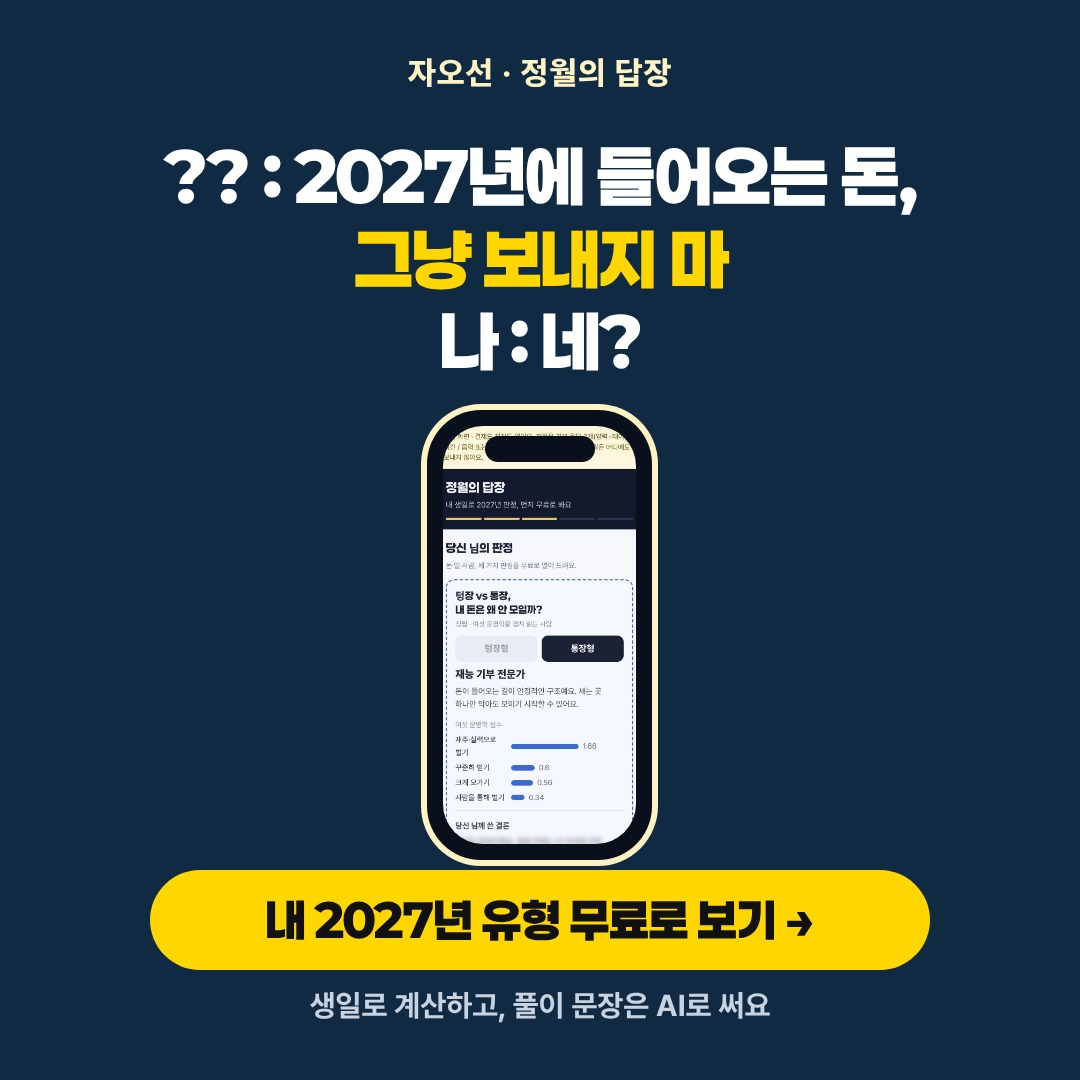
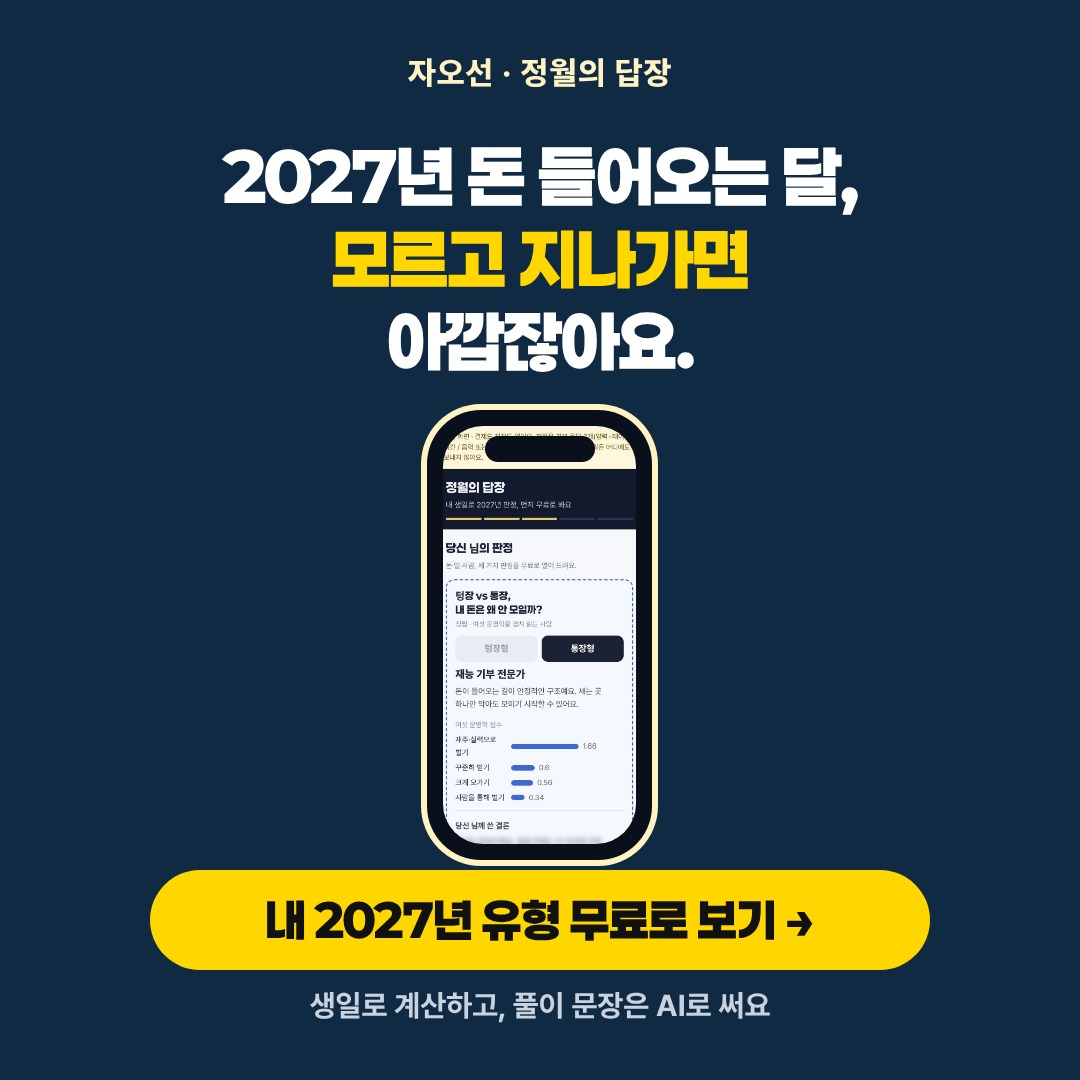
광고 B3 첫 줄 고침(대표 11/12): '?? : … 나 : 네?' → '2027년 돈 들어오는 달, 모르고 지나가면 아깝잖아요.'
Claude-Session: https://claude.ai/code/session_01BWJeVjo6oyoCgBP67AJ8y5

Changed region(s): [[0.1528, 0.1222, 0.8556, 0.3667]]

diff --git a/ads/2611_dapjang/stills/build.py b/ads/2611_dapjang/stills/build.py
@@ -27,7 +27,7 @@ ADS = [
     dict(id="B2", 공식=2, 훅="상황 지목", 그림="real",
          줄=["흠.. 일복은 넘치는데", "왜 [b]통장[/b]은 그대로야?"]),
     dict(id="B3", 공식=3, 훅="상황 지목", 그림="phone",
-         줄=["?? : 2027년에 들어오는 돈,", "[b]그냥 보내지 마[/b]", "나 : 네?"]),
+         줄=["2027년 돈 들어오는 달,", "[b]모르고 지나가면[/b]", "아깝잖아요."]),   # 11/12 대표: '?? : … 나 : 네?' 는 처음 보는 사람이 못 알아봄
     dict(id="B4", 공식=4, 훅="상황 지목", 그림="toon",
          줄=["축하해,", "2027년에 [b]너 바빠져[/b]."]),
     dict(id="B5", 공식=5, 훅="흔한 오해 교정", 그림="real",
